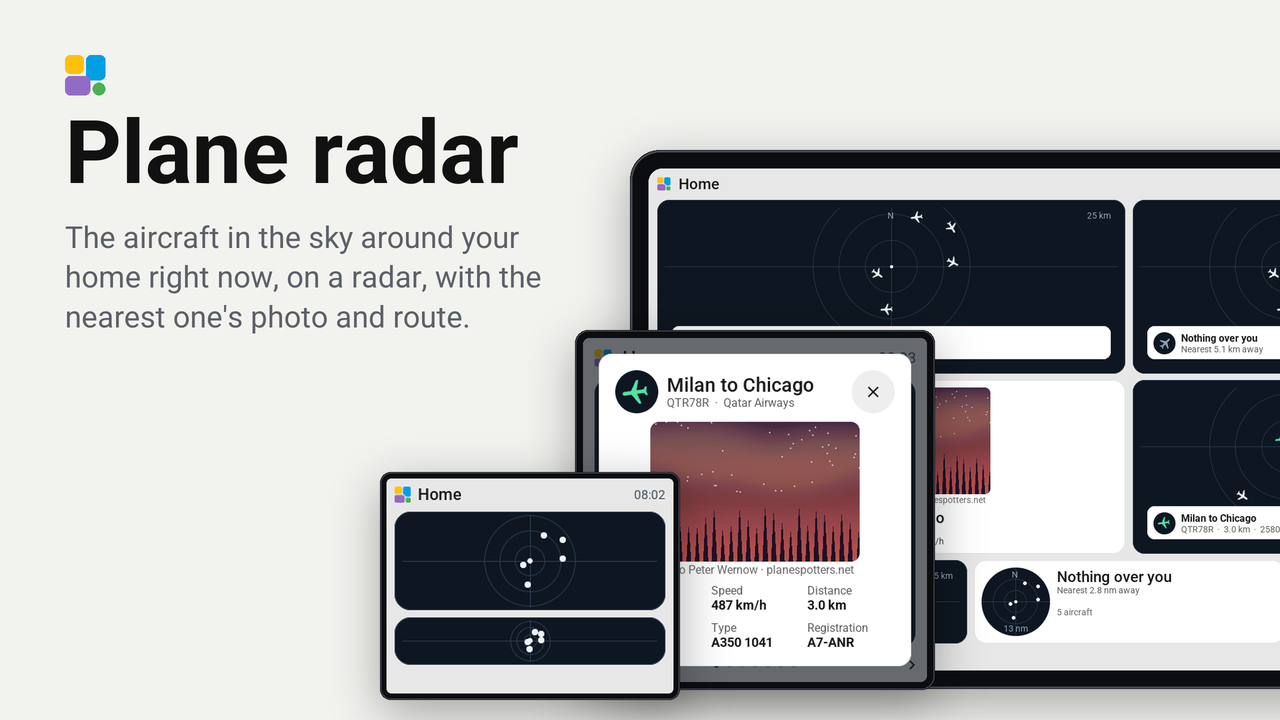
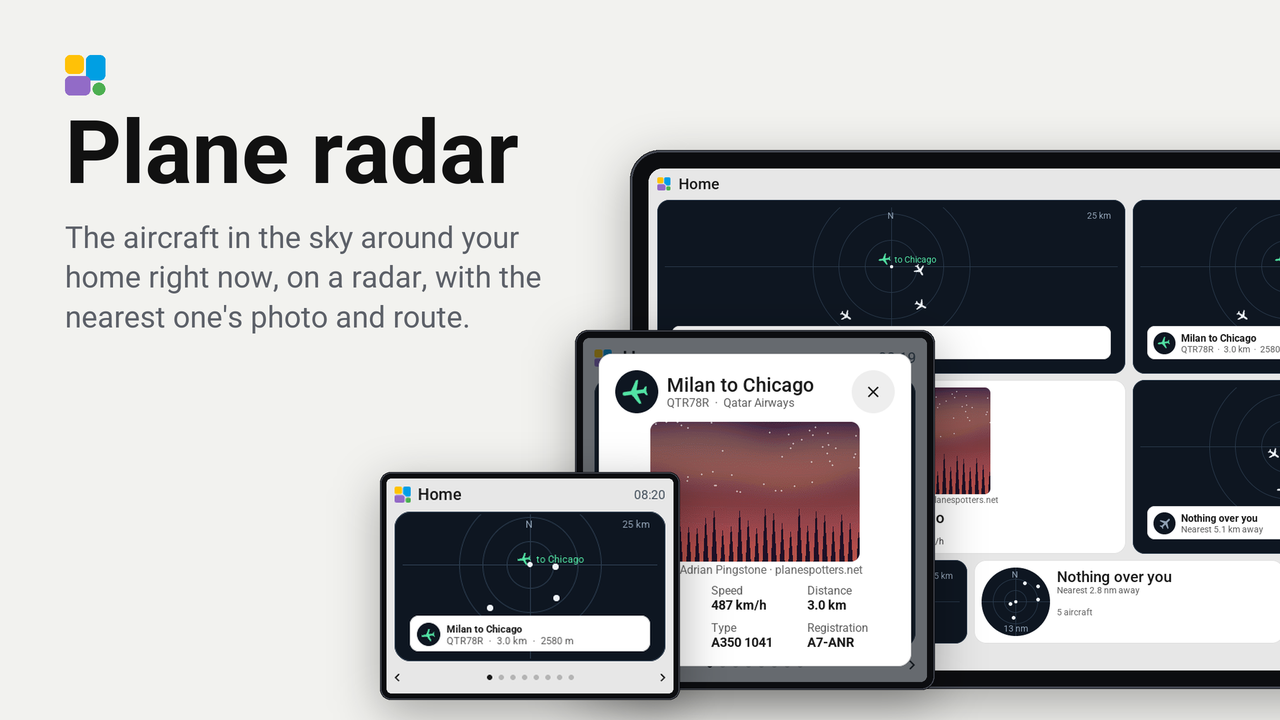
AGENTS.md names plugin API 0.28 (the check failed on dev without it). The store picture shows a first example of the whole page as the CYD's page, as the bench drew it, instead of two small tiles on one small glass. The radar's bench has a real photo: preview/plane.jpg, a Middle East Airlines A321 l

diff --git a/tools/store_image.py b/tools/store_image.py
@@ -13,6 +13,7 @@ the bench's pictures of the plugin's tiles, the way a person would fill it: the 
 example of preview.yaml once where there is room, and every cell used when the sizes allow it. A plugin with a card
 shows the card a tap on its first example opens on the small screen instead. A plugin with a screensaver and no tile
 shows its first screensaver on each screen that shows it, as the bench photographed it in standby (plugin API 0.14).
+A first example of the whole page (`sizes: [full]`) is the CYD's page as it is.
 The top bar of each page is the screen's own, from the bench.
 
 The words are the English ones: the picture is the same in every language of the app.
@@ -171,8 +172,15 @@ def arrange(pictures, columns, rows, budget=200_000):
 
 
 def compose_page(folder, screen, theme, first_only=False):
-    """A page of the screen in this theme: its top bar from the bench's first page, then the arranged tiles."""
+    """A page of the screen in this theme: its top bar from the bench's first page, then the arranged tiles. A plugin
+    whose first example is the whole page (`sizes: [full]`) shows that page as the bench drew it, on the small screens
+    that show its first example alone: one tile as large as the glass reads better there than two small ones."""
     page_file = folder / f'page-1-{theme}.png'
+    if first_only:
+        tiles = screen['views'][0]['tiles']
+        first = min((rank(t['example']) for t in tiles), default=None)
+        if any(t.get('span') == 'full' and rank(t['example']) == first for t in tiles) and page_file.is_file():
+            return Image.open(page_file).convert('RGB')
     geometry = page_geometry(folder, screen, page_file)
     if not page_file.is_file() or geometry is None:
         return None

diff --git a/AGENTS.md b/AGENTS.md
@@ -16,7 +16,7 @@ plugin is done.
    carries out the plugin's `fetch` (JSON from a web service) with its own code.
 4. A tile of a plugin is `plugin:<plugin id>.<tile id>` in a screen's layout. The core gives it a card's drawing area
    while its page is on the glass, hands it the data the app sent (`on_state`), and ticks it once a second (`on_tick`).
-5. The plugin API is 0.27 on Tessera's dev branch; the release has 0.24 since Tessera 0.4.91 (firmware 0.58.0). A manifest names the lowest minor whose
+5. The plugin API is 0.28 on Tessera's dev branch; the release has 0.24 since Tessera 0.4.91 (firmware 0.58.0). A manifest names the lowest minor whose
    parts it uses: `api: "0.8"`, `"0.9"` for `Font::DIGITS`, `ui::covers`, `Tone::GOOD`, `ui::set_fill` and
    `ui::tone_color`, `"0.10"` for pictures on a tile, `ui::text` and `tap_point()`, `"0.11"` for `on_press` and
    `on_step`, `"0.12"` for options that keep lists (`multiple`, `search`), a fetch with `each` or `{name|,}`,
@@ -32,7 +32,8 @@ plugin is done.
    tile one device fills (`from_device`), options in a `group`, numbers that may stay empty (`optional`,
    `placeholder_from`) and up to 24 options, and `"0.27"` for pictures in a popup (the manifest's `popups`),
    `ui::rotate`, the instrument roles that stay dark (`theme::INSTRUMENT...`), a fetch that uses an entity's
-   attribute (`{place.latitude:2}`) and a fetch the screen asks for (`asked`, `fetch:<id>`). A plugin builds on a core with the
+   attribute (`{place.latitude:2}`) and a fetch the screen asks for (`asked`, `fetch:<id>`), and `"0.28"` for a card that is an
+   instrument's face (`CardColor::INSTRUMENT`) and a picture's address whole in a fetch (`as: url`). A plugin builds on a core with the
    same major and at least its minor, unless a minor after its own is listed as a break: while the major is 0 a name may
    change its meaning, and the core lists those minors (only 0.4 so far); a form a minor takes away fails in the
    compiler at its call instead. So a plugin of 0.7 builds on a core of 0.24, one of 0.3
